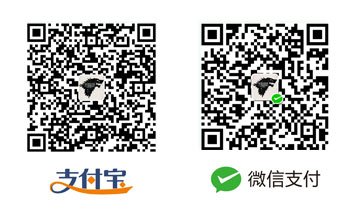
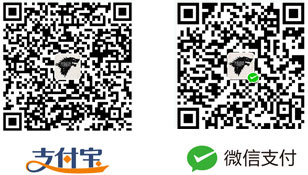
update dashang image and add dashang to all article of 201608

diff --git a/source/periodical/201608/huangqiuping.rst b/source/periodical/201608/huangqiuping.rst
@@ -331,3 +331,6 @@ MySQL中的分区在禁止空值（NULL）上没有进行处理。在RANGE分区
 本文仅是一个科普，主要介绍了什么是表分区，分区的几种类型，优点及注意事项。当表非常大以至于无法把全部数据放在内存中，或者只在表的最后部分有热点数据，其他都是历史数据时，非常适合使用分区。
 
 但在使用时也要注意分区的限制，比如分区表无法使用外键约束；或者使用分区时每插入一行数据都需要按照表达式筛选插入的分区地址，当业务插入操作很多时可以权衡下；或者如果索引列和分区列不匹配，且查询中没有包含过滤分区的条件,会导致无法进行分区过滤，那么将会导致查询所有分区。
+
+.. include:: dashang.rst
+

diff --git a/source/periodical/201608/ligang.rst b/source/periodical/201608/ligang.rst
@@ -217,3 +217,6 @@ Base64编码的64个字符为：
 
 
 `Base64编码原理与应用 <http://blog.xiayf.cn/2016/01/24/base64-encoding/>`_
+
+.. include:: dashang.rst
+

diff --git a/source/periodical/201608/dashang.rst b/source/periodical/201608/dashang.rst
@@ -1,3 +1,6 @@
+
+--------
+
 如果您觉得我们的文章对您有帮助，欢迎给我们打赏。
 
 .. image:: img/dashang.jpg

diff --git a/source/periodical/201608/haoyankai.rst b/source/periodical/201608/haoyankai.rst
@@ -476,3 +476,6 @@ filter链
             index  index.html index.htm;
         }   
     }
+
+.. include:: dashang.rst
+
